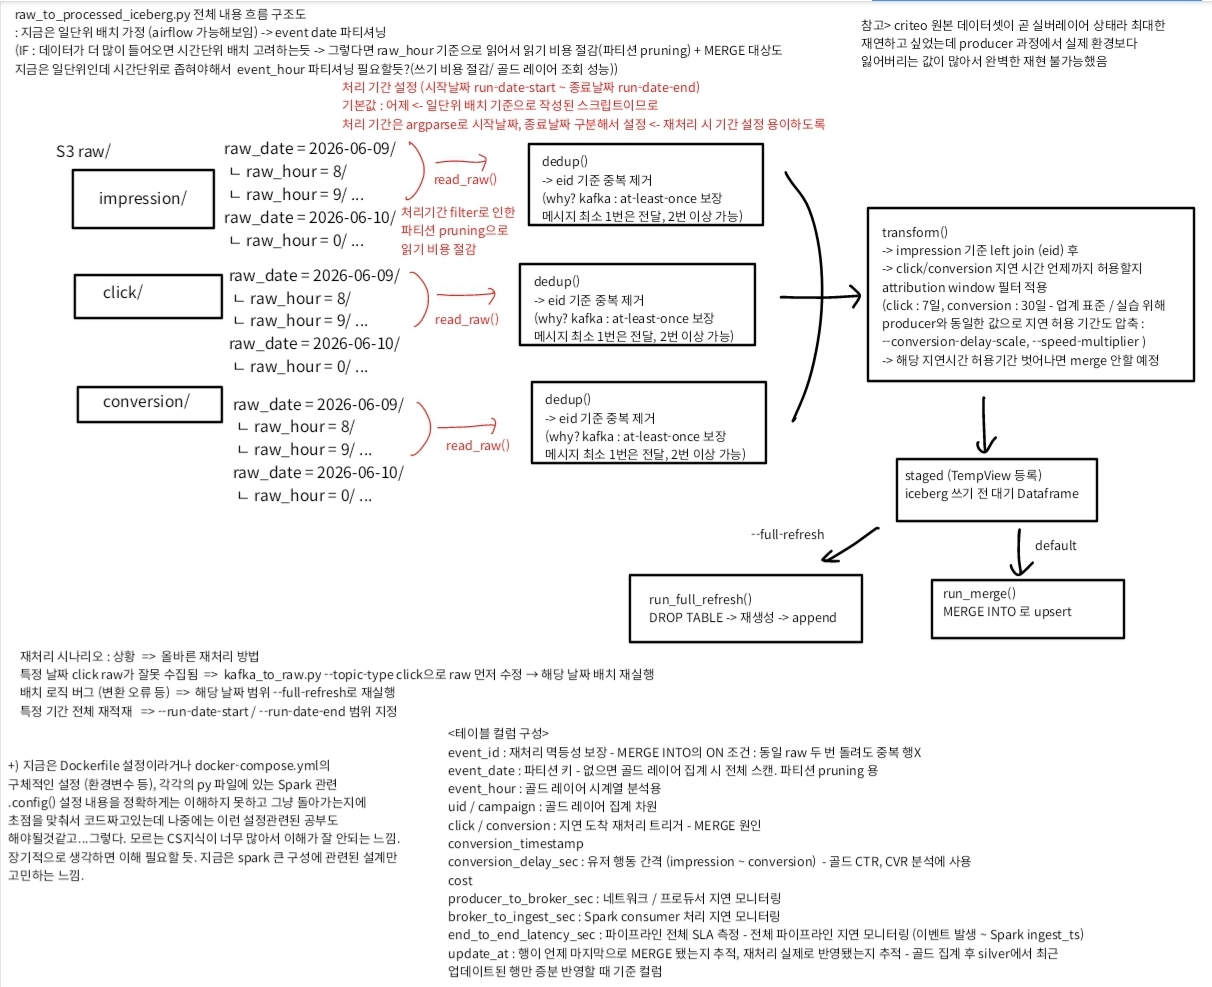
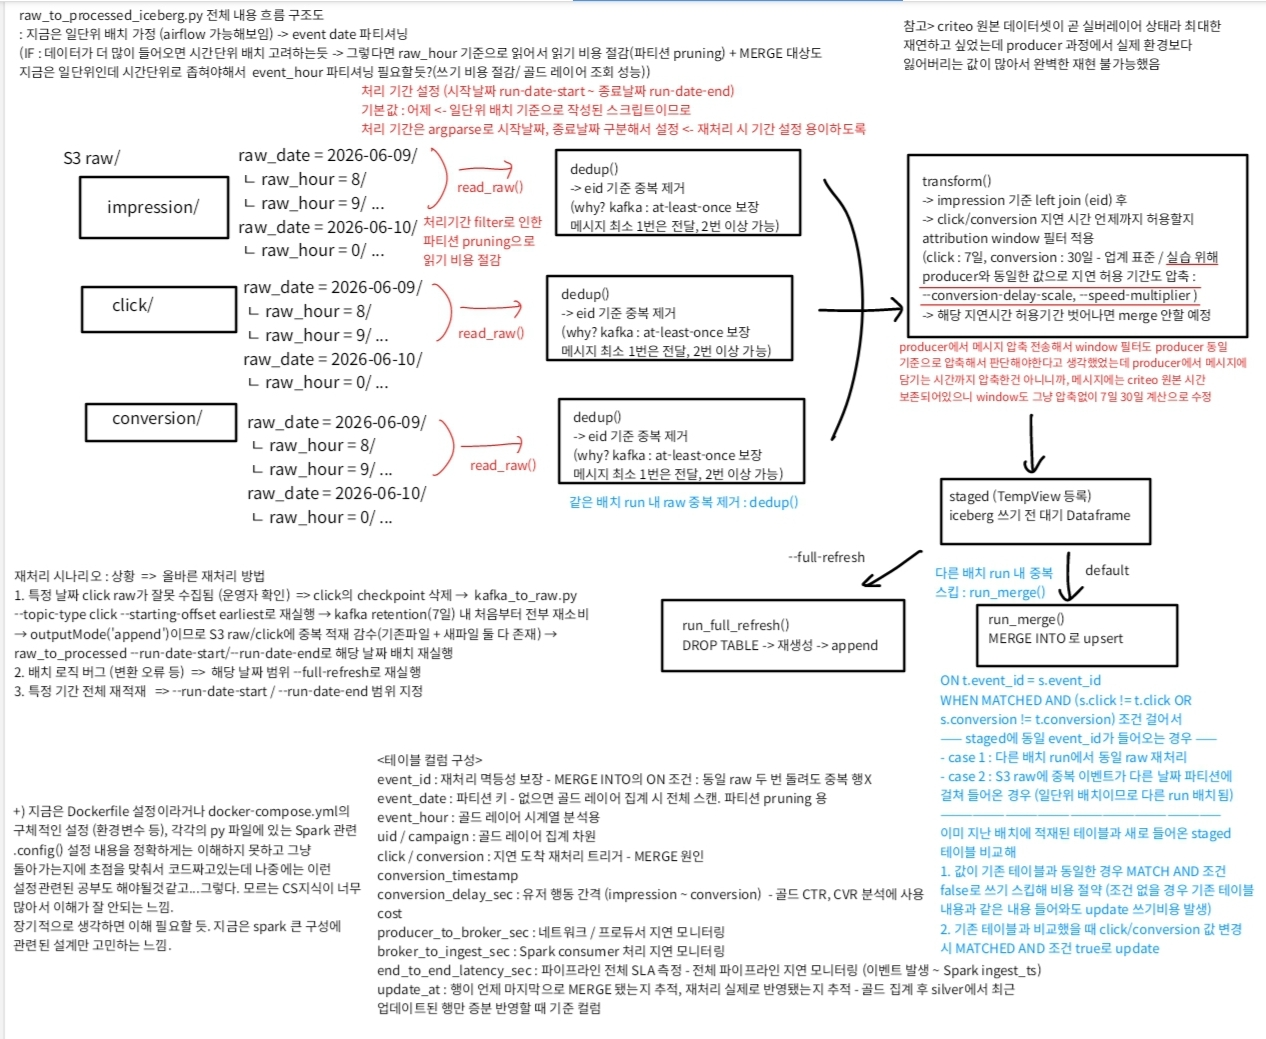
fix(producer): Criteo 상대시간 → real timestamp 재매핑
[문제 상황]
producer가 Criteo 원본 상대시간(ts)을 메시지 timestamp에 그대로 사용해
event_time이 1970년대 날짜로 생성됨.

Silver event_date(event_time 기준)와 Airflow run_date(실제 날짜)가
서로 다른 시간축에 있어 Silver 파티션 pruning 필터가 무력화됨:
  event_date >= 2026-06-08 조건 → 1970년대 날짜에 전부 FALSE → 빈 결과
  → attribution Stage 2에서 아무 UPDATE도 발생하지 않음

[해결]
첫 이벤트의 Criteo timestamp를 기준점(criteo_base)으로 설정,
producer 시작 시각(real_start)으로부터 선형 재매핑:
  real_ts = real_start + (criteo_ts - criteo_base) / speed_multiplier

이벤트 간 상대 간격은 그대로 유지하면서 절대 시각을 현재로 이동.
raw_date / event_date / summary_date 모두 동일한 시간축(2026년대)이 되어
Silver / Gold 파이프라인의 날짜 기반 필터가 정상 동작.

[변경 범위]
- real_start, criteo_base 초기화 추가 (루프 진입 전)
- impression / click / conversion 메시지 timestamp → real_ts 사용
- event_time → datetime.fromtimestamp(real_ts).isoformat()

Changed region(s): [[0.0, 0.0, 1.0, 1.0], [0.7021, 0.0, 0.9769, 0.0912]]

diff --git a/project/producer.py b/project/producer.py
@@ -160,8 +160,14 @@ def main():
     )
     worker.start()  # 스레드 시작
 
-    # impression 전송 시간 압축
-    prev_ts = None  # 처음엔 이전 행이 없으므로 None
+    # Criteo 상대시간 → 현재 실시간 재매핑
+    # real_ts = real_start + (criteo_ts - criteo_base) / speed_multiplier
+    # criteo_base: 첫 이벤트의 Criteo timestamp (기준점)
+    # 이렇게 하면 이벤트 간 상대 간격은 그대로 유지되면서 절대 시각이 현재로 이동
+    # raw_date / event_date 모두 2026년대 날짜가 되어 실제 파이프라인 동작과 동일해짐
+    real_start   = time.time()
+    criteo_base  = None  # 첫 행에서 설정
+    prev_ts      = None
 
     # -------------------------------------------------------------------
 
@@ -174,7 +180,13 @@ def main():
         cmp = int(row['campaign'])
         ts  = int(row['timestamp'])
 
-        # impression 간격 압축
+        if criteo_base is None:
+            criteo_base = ts
+
+        # Criteo 상대시간 → 실시간 변환
+        real_ts = int(real_start + (ts - criteo_base) / args.speed_multiplier)
+
+        # impression 간격 압축 (sleep 타이밍은 Criteo 상대 간격 기준 유지)
         if prev_ts is not None and ts > prev_ts:
         #  ↑ 첫 번째 행은 건너뜀    ↑ 현재가 이전보다 클 때만
             delay = (ts - prev_ts) / args.speed_multiplier
@@ -187,8 +199,8 @@ def main():
         imp_message = {
             'eid':        eid,
             'uid':        uid,
-            'timestamp':  ts,
-            'event_time': datetime.fromtimestamp(ts).isoformat(),
+            'timestamp':  real_ts,
+            'event_time': datetime.fromtimestamp(real_ts).isoformat(),
             'event_type': "impression",
             'campaign':   cmp,
             'cost':       float(row['cost']) if row['cost'] else 0.0,
@@ -198,12 +210,13 @@ def main():
 
         # click 토픽으로 보낼 메시지 - 힙&우선순위큐 저장 후 별도 스레드 전송
         if int(row['click']) == 1:
-            click_delay = rng.randint(1, 30)  # 1~30 사이 정수 랜덤 반환
+            click_delay = rng.randint(1, 30)  # 1~30 사이 정수 랜덤 반환 (Criteo 초 단위)
+            real_click_ts = int(real_start + (ts + click_delay - criteo_base) / args.speed_multiplier)
             click_message = {
                 'eid':        eid,
                 'uid':        uid,
-                'timestamp':  ts + click_delay,  # 지연시간 랜덤하게 1~30초
-                'event_time': datetime.fromtimestamp(ts + click_delay).isoformat(),
+                'timestamp':  real_click_ts,
+                'event_time': datetime.fromtimestamp(real_click_ts).isoformat(),
                 'event_type': "click",
                 'campaign':   cmp,
             }
@@ -224,17 +237,18 @@ def main():
                 continue  # for 루프 다음 행으로 (해당 conversion 스킵해서 중복 conversion 입력 방지)
             seen_conversion_ids.add(conv_id)
 
+            real_conv_ts = int(real_start + (conv_ts - criteo_base) / args.speed_multiplier)
             conv_message = {
                 'eid':        eid,
                 'uid':        uid,
-                'timestamp':  conv_ts,
-                'event_time': datetime.fromtimestamp(conv_ts).isoformat(),
+                'timestamp':  real_conv_ts,
+                'event_time': datetime.fromtimestamp(real_conv_ts).isoformat(),
                 'event_type': "conversion",
                 'campaign':   cmp,
             }
             # 힙으로 추가 -- 소비는 힙을 처리하는 워커 스레드에서(delayed_event_worker)
             # 원본 지연 = 전환 시각(conv_ts) - 노출 시각(timestamp) = 최대 수십일
-            original_delay = max(conv_ts - int(row['timestamp']), 0)
+            original_delay = max(conv_ts - ts, 0)
                 # 압축: 원본 지연 * conversion_delay_scale / speed_multiplier
                 # ex) 원본 3600초 지연 → 3600 * 0.01 / 100 = 0.36초 후 발행
             send_at = time.time() + (
